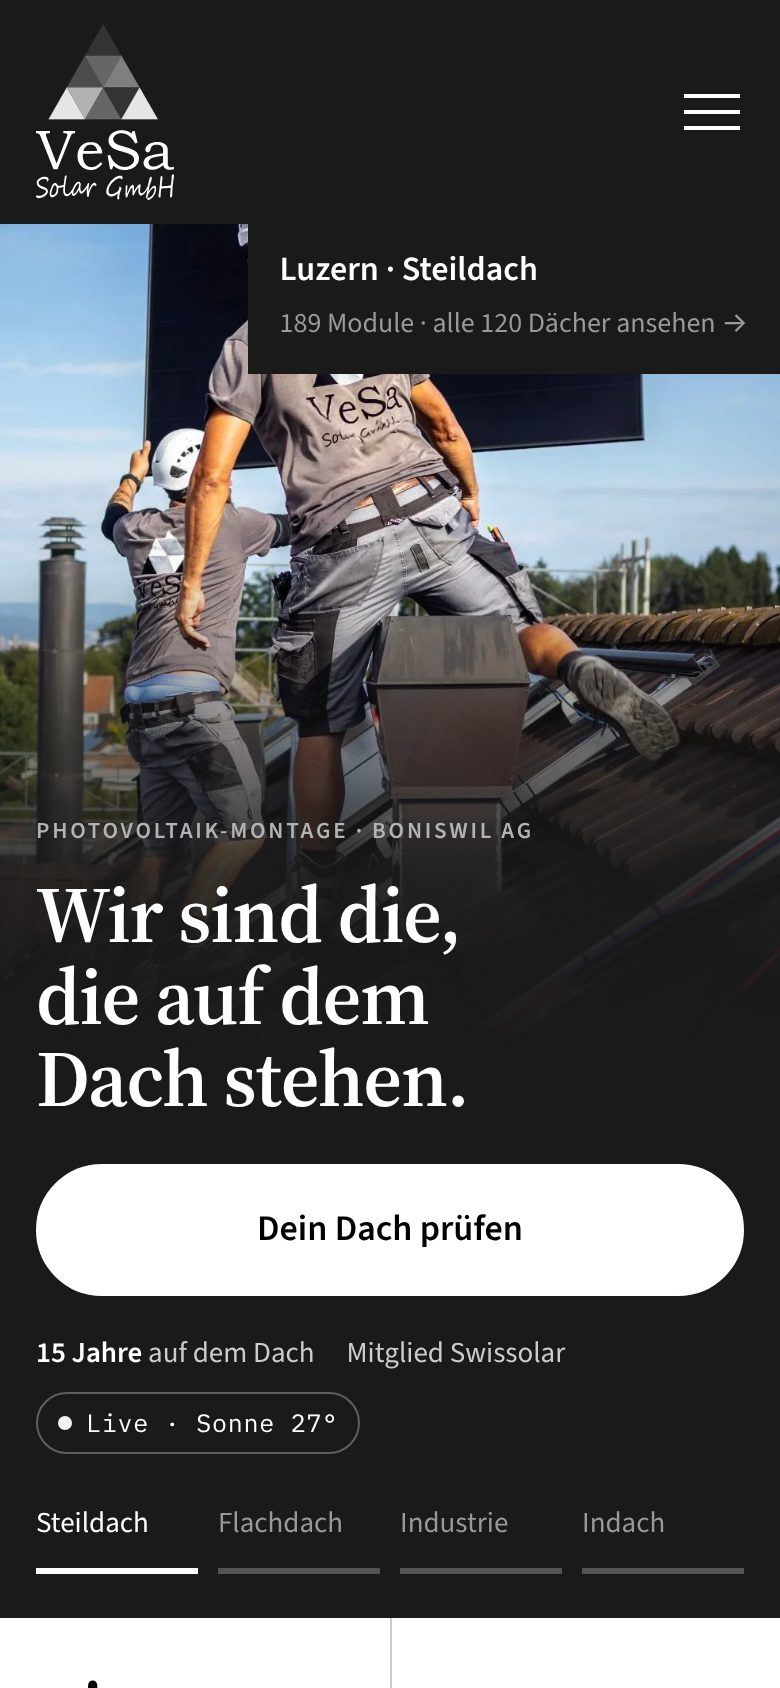
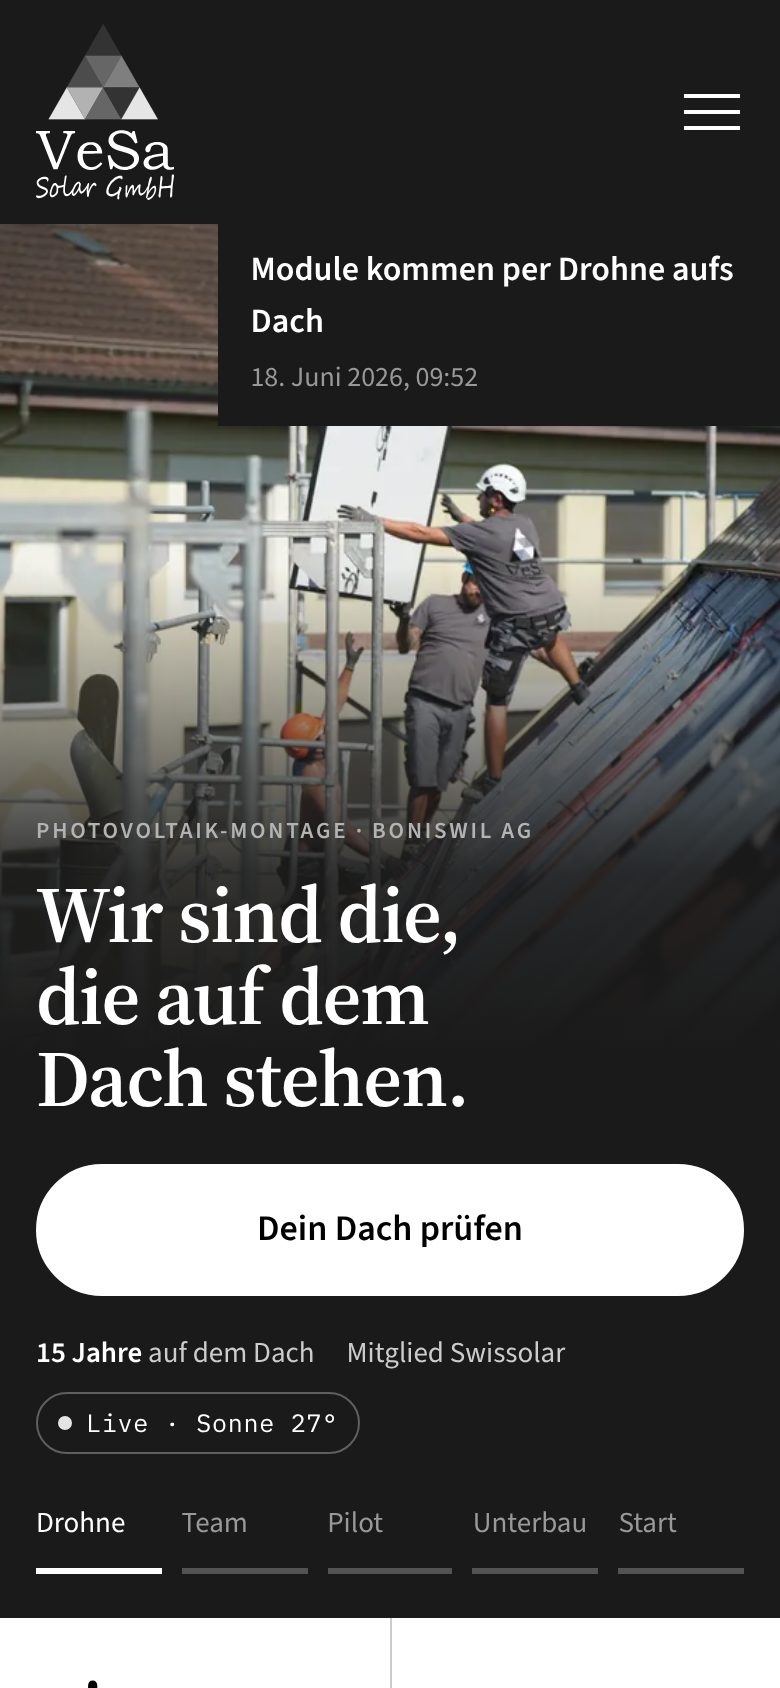
Slider mit Adrians Fotos vom Montagetag, Kontaktbögen aller 98 Fotos (VES-021)
Claude-Session: https://claude.ai/code/session_01AmTsxfm8VPSTvFxMghAZew

diff --git a/entwuerfe/entwurf-e.html b/entwuerfe/entwurf-e.html
@@ -161,7 +161,7 @@ footer .wrap{display:flex;justify-content:space-between;flex-wrap:wrap;gap:10px}
 .slides{position:absolute;inset:0}
 .slide{position:absolute;inset:0;margin:0;opacity:0;transition:opacity .9s ease}
 .slide.on{opacity:1}
-.slide img{width:100%;height:100%;object-fit:cover;display:block;transform:scale(1.06);transition:transform 7s linear}
+.slide img{width:100%;height:100%;object-fit:cover;object-position:var(--d,50% 50%);display:block;transform:scale(1.06);transition:transform 7s linear}
 .slide.on img{transform:scale(1)}
 .hero2::after{content:"";position:absolute;inset:0;pointer-events:none;background:linear-gradient(90deg,rgba(26,26,26,.92) 0%,rgba(26,26,26,.7) 34%,rgba(26,26,26,0) 62%),linear-gradient(0deg,rgba(26,26,26,.85) 0%,rgba(26,26,26,0) 40%)}
 .h2txt{position:relative;z-index:2;width:100%;padding:0 0 40px}
@@ -174,7 +174,7 @@ footer .wrap{display:flex;justify-content:space-between;flex-wrap:wrap;gap:10px}
 .trust b{color:#fff;font-weight:600}
 .chip{font-family:"IBM Plex Mono",monospace;font-size:12.5px;letter-spacing:.03em;border:1px solid rgba(255,255,255,.3);padding:5px 10px;border-radius:999px;color:#fff}
 .chip::before{content:"";display:inline-block;width:7px;height:7px;border-radius:50%;background:#fff;margin-right:7px;animation:blink 1.6s infinite;vertical-align:1px}
-.bars{display:grid;grid-template-columns:repeat(4,1fr);gap:14px;margin-top:40px;max-width:760px}
+.bars{display:grid;grid-template-columns:repeat(5,1fr);gap:14px;margin-top:40px;max-width:820px}
 .bars button{background:none;border:0;color:#999999;font:inherit;font-size:16px;text-align:left;padding:0;cursor:pointer}
 .bars button.on,.bars button:hover{color:#fff}
 .bars i{display:block;height:3px;background:rgba(255,255,255,.25);margin-top:10px;overflow:hidden}
@@ -183,7 +183,7 @@ footer .wrap{display:flex;justify-content:space-between;flex-wrap:wrap;gap:10px}
 .bars button.on u{animation:fill var(--dur,6s) linear forwards}
 .paused .bars button.on u{animation-play-state:paused}
 @keyframes fill{to{width:100%}}
-.cap{position:absolute;z-index:3;right:0;top:0;background:var(--bg);color:var(--fg);padding:14px 20px 16px;min-width:260px}
+.cap{position:absolute;z-index:3;right:0;top:0;background:var(--bg);color:var(--fg);padding:14px 20px 16px;min-width:260px;max-width:380px}
 .cap b{display:block;font-size:19px;font-weight:600}
 .cap span{color:var(--mute);font-size:15px}
 .hero2 .live{z-index:3;top:auto;bottom:40px;right:32px}
@@ -205,6 +205,8 @@ html[data-hero="1"] .bars{display:none}
  .cap{min-width:0;max-width:72%;padding:10px 16px 12px}
  .cap b{font-size:17px} .cap span{font-size:14px}
  .hero2 .live{display:none}
+ .slide img{object-position:var(--m,50% 50%)}
+ .cap-l{display:none}
 }
 @media (prefers-reduced-motion:reduce){.slide,.slide img{transition:none}.bars button.on u{animation:none;width:100%}}
 </style>
@@ -228,12 +230,13 @@ html[data-hero="1"] .bars{display:none}
 
 <div class="hero2" id="hero">
  <div class="slides" id="slides">
-  <figure class="slide on" data-t="Luzern · Steildach" data-s="189 Module"><img src="../fotos/monteur-dach.webp" alt="Zwei Monteure tragen ein Modul über ein Ziegeldach in Luzern" style="object-position:58% 30%"></figure>
-  <figure class="slide" data-t="Muri AG · Flachdach" data-s="292 Module"><img src="../fotos/muri-halle.webp" alt="Flachdach in Muri mit 292 Modulen von oben" style="object-position:50% 50%"></figure>
-  <figure class="slide" data-t="Spreitenbach · Industrie" data-s="640 Module"><img src="../fotos/keller-spreitenbach.webp" alt="Industriehalle in Spreitenbach mit Solaranlage" style="object-position:50% 45%"></figure>
-  <figure class="slide" data-t="Zürich · Indach" data-s="72 Module"><img src="../fotos/letzigraben.webp" alt="Mehrfamilienhaus in Zürich mit Indach-Anlage" style="object-position:50% 45%"></figure>
+  <figure class="slide on" data-t="Module kommen per Drohne aufs Dach" data-s="18. Juni 2026, 09:52" style="--d:60% 40%;--m:64% 40%"><img src="../fotos/auftrag/drohne-anflug-1600.webp" srcset="../fotos/auftrag/drohne-anflug-900.webp 900w, ../fotos/auftrag/drohne-anflug-1600.webp 1600w, ../fotos/auftrag/drohne-anflug-2400.webp 2400w" sizes="100vw" alt="Ein Solarmodul hängt an der Drohne, das Team nimmt es auf dem Gerüst an"></figure>
+  <figure class="slide" data-t="Oben nimmt das Team sie an" data-s="10:10" style="--d:60% 35%;--m:66% 30%"><img src="../fotos/auftrag/team-geruest-1600.webp" srcset="../fotos/auftrag/team-geruest-900.webp 900w, ../fotos/auftrag/team-geruest-1600.webp 1600w, ../fotos/auftrag/team-geruest-2400.webp 2400w" sizes="100vw" alt="Zwei Monteure mit Helm auf dem Gerüst schauen dem nächsten Modul entgegen" loading="lazy"></figure>
+  <figure class="slide" data-t="Der Pilot fliegt vom Kamin aus" data-s="09:44" style="--d:55% 40%;--m:52% 45%"><img src="../fotos/auftrag/pilot-kamin-1600.webp" srcset="../fotos/auftrag/pilot-kamin-900.webp 900w, ../fotos/auftrag/pilot-kamin-1600.webp 1600w, ../fotos/auftrag/pilot-kamin-2400.webp 2400w" sizes="100vw" alt="Der Drohnenpilot sitzt mit Helm und Fernsteuerung auf dem Kamin" loading="lazy"></figure>
+  <figure class="slide" data-t="Unterbau ab halb acht" data-s="07:33, Haken und Schienen" style="--d:50% 40%;--m:52% 40%"><img src="../fotos/auftrag/unterbau-morgen-1600.webp" srcset="../fotos/auftrag/unterbau-morgen-900.webp 900w, ../fotos/auftrag/unterbau-morgen-1600.webp 1600w, ../fotos/auftrag/unterbau-morgen-2400.webp 2400w" sizes="100vw" alt="Ein Monteur schraubt die Schienen der Unterkonstruktion auf das Ziegeldach" loading="lazy"></figure>
+  <figure class="slide" data-t="Drohne startklar" data-s="09:06, neben der Baustelle" style="--d:62% 50%;--m:74% 50%"><img src="../fotos/auftrag/drohne-startklar-1600.webp" srcset="../fotos/auftrag/drohne-startklar-900.webp 900w, ../fotos/auftrag/drohne-startklar-1600.webp 1600w, ../fotos/auftrag/drohne-startklar-2400.webp 2400w" sizes="100vw" alt="Zwei Männer stehen auf einer Wiese neben der startklaren Transportdrohne" loading="lazy"></figure>
  </div>
- <a class="cap" href="#daecher" id="cap"><b id="cap-t">Luzern · Steildach</b><span><span id="cap-s">189 Module</span> · alle 120 Dächer ansehen →</span></a>
+ <a class="cap" href="#system" id="cap"><b id="cap-t">Module kommen per Drohne aufs Dach</b><span><span id="cap-s">18. Juni 2026, 09:52</span><span class="cap-l"> · so montieren wir →</span></span></a>
  <div class="live" id="live">
    <div class="t"><b>Live · Boniswil</b><span id="lv-time">–</span></div>
    <div class="sun"><svg viewBox="0 0 260 70" id="sunpath"></svg></div>
@@ -252,11 +255,12 @@ html[data-hero="1"] .bars{display:none}
   <p>Kein Verkäufer, der die Montage weitergibt. Sandro und sein Team montieren seit 15 Jahren Solaranlagen, vom Einfamilienhaus bis zur Halle.</p>
   <div class="btns"><a class="btn p" href="#dach">Dein Dach prüfen</a><a class="btn s2" href="#system">Wie wir montieren</a></div>
   <div class="trust"><span><b>15 Jahre</b> auf dem Dach</span><span>Mitglied Swissolar</span><span class="chip" id="lv-chip">Live · Boniswil</span></div>
-  <div class="bars" id="bars" role="tablist" aria-label="Dächer">
-   <button type="button" role="tab" class="on"><span>Steildach</span><i><u></u></i></button>
-   <button type="button" role="tab"><span>Flachdach</span><i><u></u></i></button>
-   <button type="button" role="tab"><span>Industrie</span><i><u></u></i></button>
-   <button type="button" role="tab"><span>Indach</span><i><u></u></i></button>
+  <div class="bars" id="bars" role="tablist" aria-label="Ein Montagetag in Bildern">
+   <button type="button" role="tab" class="on"><span>Drohne</span><i><u></u></i></button>
+   <button type="button" role="tab"><span>Team</span><i><u></u></i></button>
+   <button type="button" role="tab"><span>Pilot</span><i><u></u></i></button>
+   <button type="button" role="tab"><span>Unterbau</span><i><u></u></i></button>
+   <button type="button" role="tab"><span>Start</span><i><u></u></i></button>
   </div>
  </div></div>
 </div>

diff --git a/LOGBUCH.md b/LOGBUCH.md
@@ -68,7 +68,7 @@ Die Vorgeschichte steht im formateins-Logbuch unter ENT-078 bis ENT-082.
   in Zürcher Zeit, auch für Besucher in anderen Zeitzonen. Nachts zeigt die
   Zählerleiste den Wert von heute Mittag statt 0 kW (aus VES-008). Beleg
   `28c0504`.
-- [ ] **VES-012** · 03.11.2026 · **Auftragsfotos von Adrian**: 98 Fotos vom
+- [x] **VES-012** · 03.11.2026 · **Auftragsfotos von Adrian**: 98 Fotos vom
   18.06.2026 im Google-Drive-Ordner «VESA Solar» (A7408035 bis A7408132,
   je 6 bis 23 MB). Der Drive-Zugang dieser Sitzung bricht bei Dateien dieser
   Grösse ab, und ohne Freigabe leitet Google auf die Anmeldung um. Offen:
@@ -145,7 +145,7 @@ Die Vorgeschichte steht im formateins-Logbuch unter ENT-078 bis ENT-082.
   Metadaten (GPS, Kamera), schreibt WebP in 2400, 1600 und 900 px für
   `srcset` und einen Kontaktbogen zur Auswahl. An zwei Fotos geprüft.
   Renderings von E neu, hell und dunkel, ohne Skriptfehler.
-- [ ] **VES-020** · 03.11.2026 · **Adrians Fotos in den Slider**. Weiterhin
+- [x] **VES-020** · 03.11.2026 · **Adrians Fotos in den Slider**. Weiterhin
   blockiert wie in VES-012: Der Drive-Ordner «VESA Solar» ist privat (Google
   leitet auf die Anmeldung um, um 12:20 erneut geprüft), und der
   Drive-Zugang dieser Sitzung bricht bei Dateien ab etwa 6 MB ab.
@@ -157,3 +157,26 @@ Die Vorgeschichte steht im formateins-Logbuch unter ENT-078 bis ENT-082.
   Skript aufbereiteten WebP ohne Metadaten. Danach Kontaktbogen zeigen,
   Adrian wählt die vier bis sechs Slider-Bilder und je Bild Ort, Dachart
   und Modulzahl.
+- [x] **VES-021** · 03.11.2026 · **Slider mit Adrians Fotos**, erledigt
+  damit VES-012 und VES-020. Adrian hat den Drive-Ordner per Link
+  freigegeben («Link geändert»). Alle 98 Fotos geladen (1,6 GB, alle gültig,
+  Sony ILCE-7M4, 18.06.2026, 07:29 bis 12:58). Sie zeigen einen Montagetag:
+  Unterbau am Morgen, Transportdrohne auf der Wiese, Pilot auf dem Kamin,
+  Module hängen an der Drohne, das Team nimmt sie auf dem Gerüst an. Fünf
+  Bilder für den Slider gewählt, das stärkste zuerst: A7408094 «Module
+  kommen per Drohne aufs Dach» (09:52), A7408110 «Oben nimmt das Team sie
+  an» (10:10), A7408084 «Der Pilot fliegt vom Kamin aus» (09:44), A7408043
+  «Unterbau ab halb acht» (07:33), A7408062 «Drohne startklar» (09:06).
+  Balken: Drohne, Team, Pilot, Unterbau, Start. Aufbereitet mit
+  `werkzeuge/fotos-aufbereiten.py` nach `fotos/auftrag/`, je 900, 1600 und
+  2400 px, ohne Metadaten, zusammen 1,8 MB; im Slider mit `srcset`, das
+  Handy lädt 900 px. Bildausschnitt je Foto getrennt für Handy und Desktop.
+  Auf dem Handy zeigt die Karte nur Titel und Uhrzeit. Kontaktbögen aller 98
+  Fotos in `fotos/auftrag/uebersicht/`, Originale nur in der Sitzung, nicht
+  im Repository. Geprüft: alle fünf Bilder hell und dunkel, Handy und
+  Desktop, keine fehlenden Dateien, keine Skriptfehler. Offen: Ort der
+  Baustelle für die Karte (heute nur Datum und Uhrzeit), ob die Drohne
+  VeSa gehört oder einem Partner (Text «per Drohne» bewusst neutral), und
+  Adrian nimmt die Drive-Freigabe zurück. Desktop: Beim Unterbau-Bild liegt
+  der Monteur unter dem Text, weil das Foto keinen Spielraum nach rechts
+  hat.
